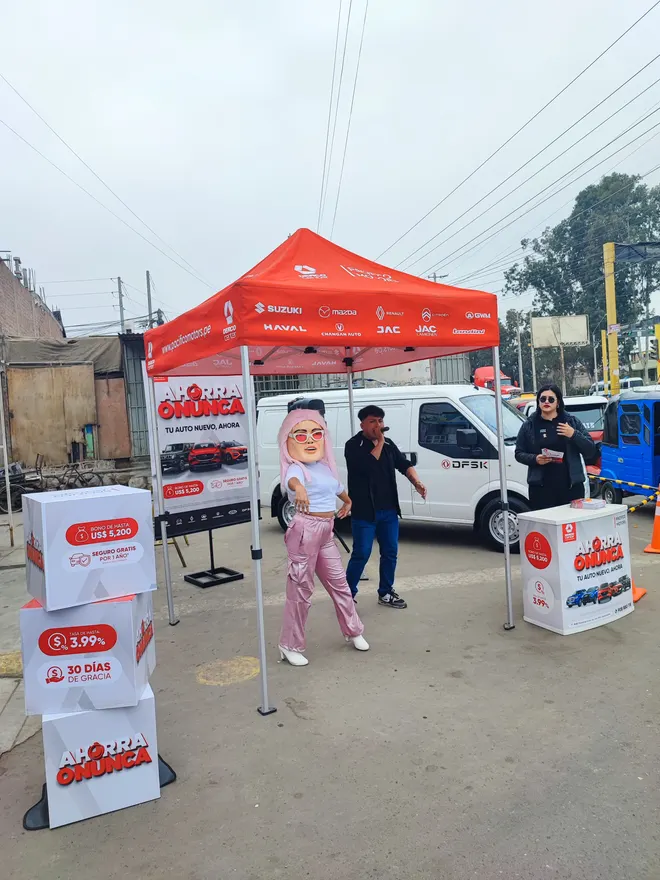
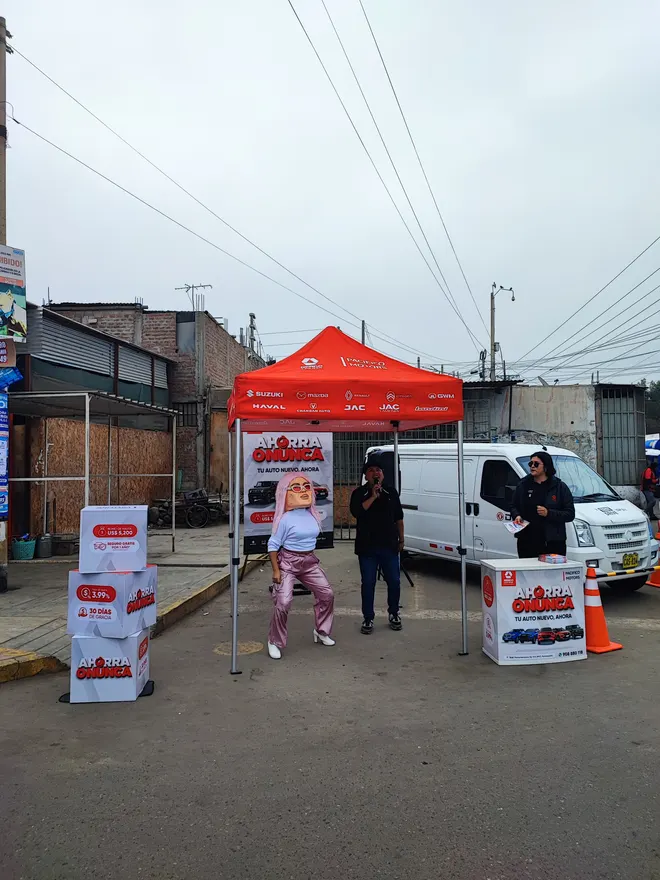
portafolio: otra portada para el mercado de Santo Domingo
A petición del owner. Pasa a abrir la toma abierta, que es la única de las
cuatro donde se ven los puestos y la calle del mercado: la pieza se titula
"a pie de puesto" y la anterior podía ser cualquier calle.

El alt sigue a su foto.

diff --git a/src/content/portafolio.ts b/src/content/portafolio.ts
@@ -108,9 +108,9 @@ export const PORTAFOLIO: PiezaPortafolio[] = [
       "Cuatro promotores y un supervisor, tres horas de mercado, 167 datos. Son 56 registros por hora sostenidos: ese ritmo no lo da el volante, lo da salir con un argumento preparado para ese comprador.",
     altBase: "Activación de marca de DFSK en el mercado de Santo Domingo, en Ica",
     alts: [
+      "Módulo de DFSK montado en la calle del mercado de Santo Domingo, entre los puestos",
       "Equipo de promotoría de Suggestion captando datos para DFSK en el mercado de Santo Domingo",
       "Activación de marca de DFSK y Pacífico Motors en zona de alto tránsito comercial",
-      "Módulos de activación de DFSK montados en el mercado de Santo Domingo, en Ica",
     ],
   },
   {
